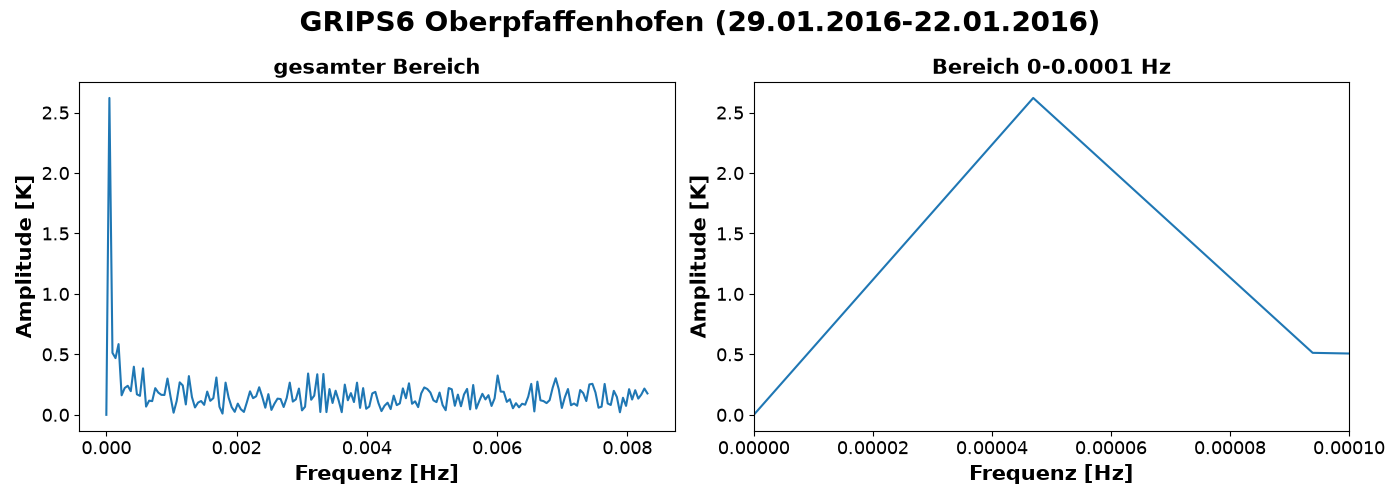
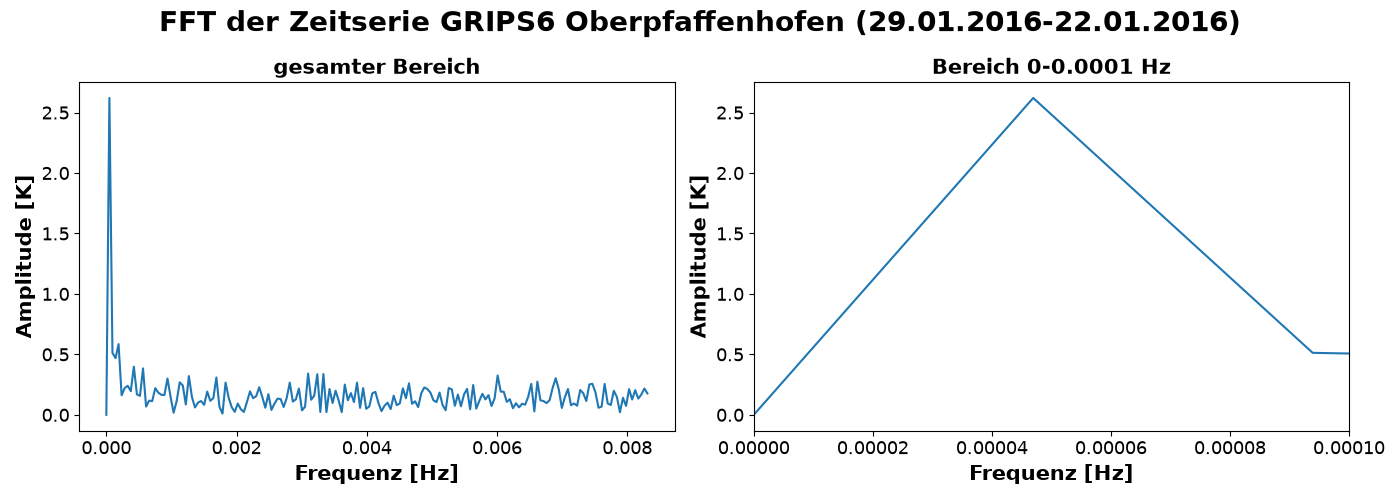
mit richtigem titel

Changed region(s): [[0.0921, 0.0, 0.8907, 0.09]]

diff --git a/fft.py b/fft.py
@@ -61,7 +61,7 @@ for csv_path in input_dir.glob("*.csv"):
     station_name = station_list.get(csv_path.stem, csv_path.stem)
     date_key = csv_path.stem[-4:]
     date_range = date_list.get(date_key, "")
-    suptitle = f"{station_name} ({date_range})" if date_range else station_name
+    suptitle = f"FFT der Zeitserie {station_name} ({date_range})" if date_range else station_name
 
     fig, (ax_full, ax_zoom) = plt.subplots(1, 2, figsize=(14, 5))
 
